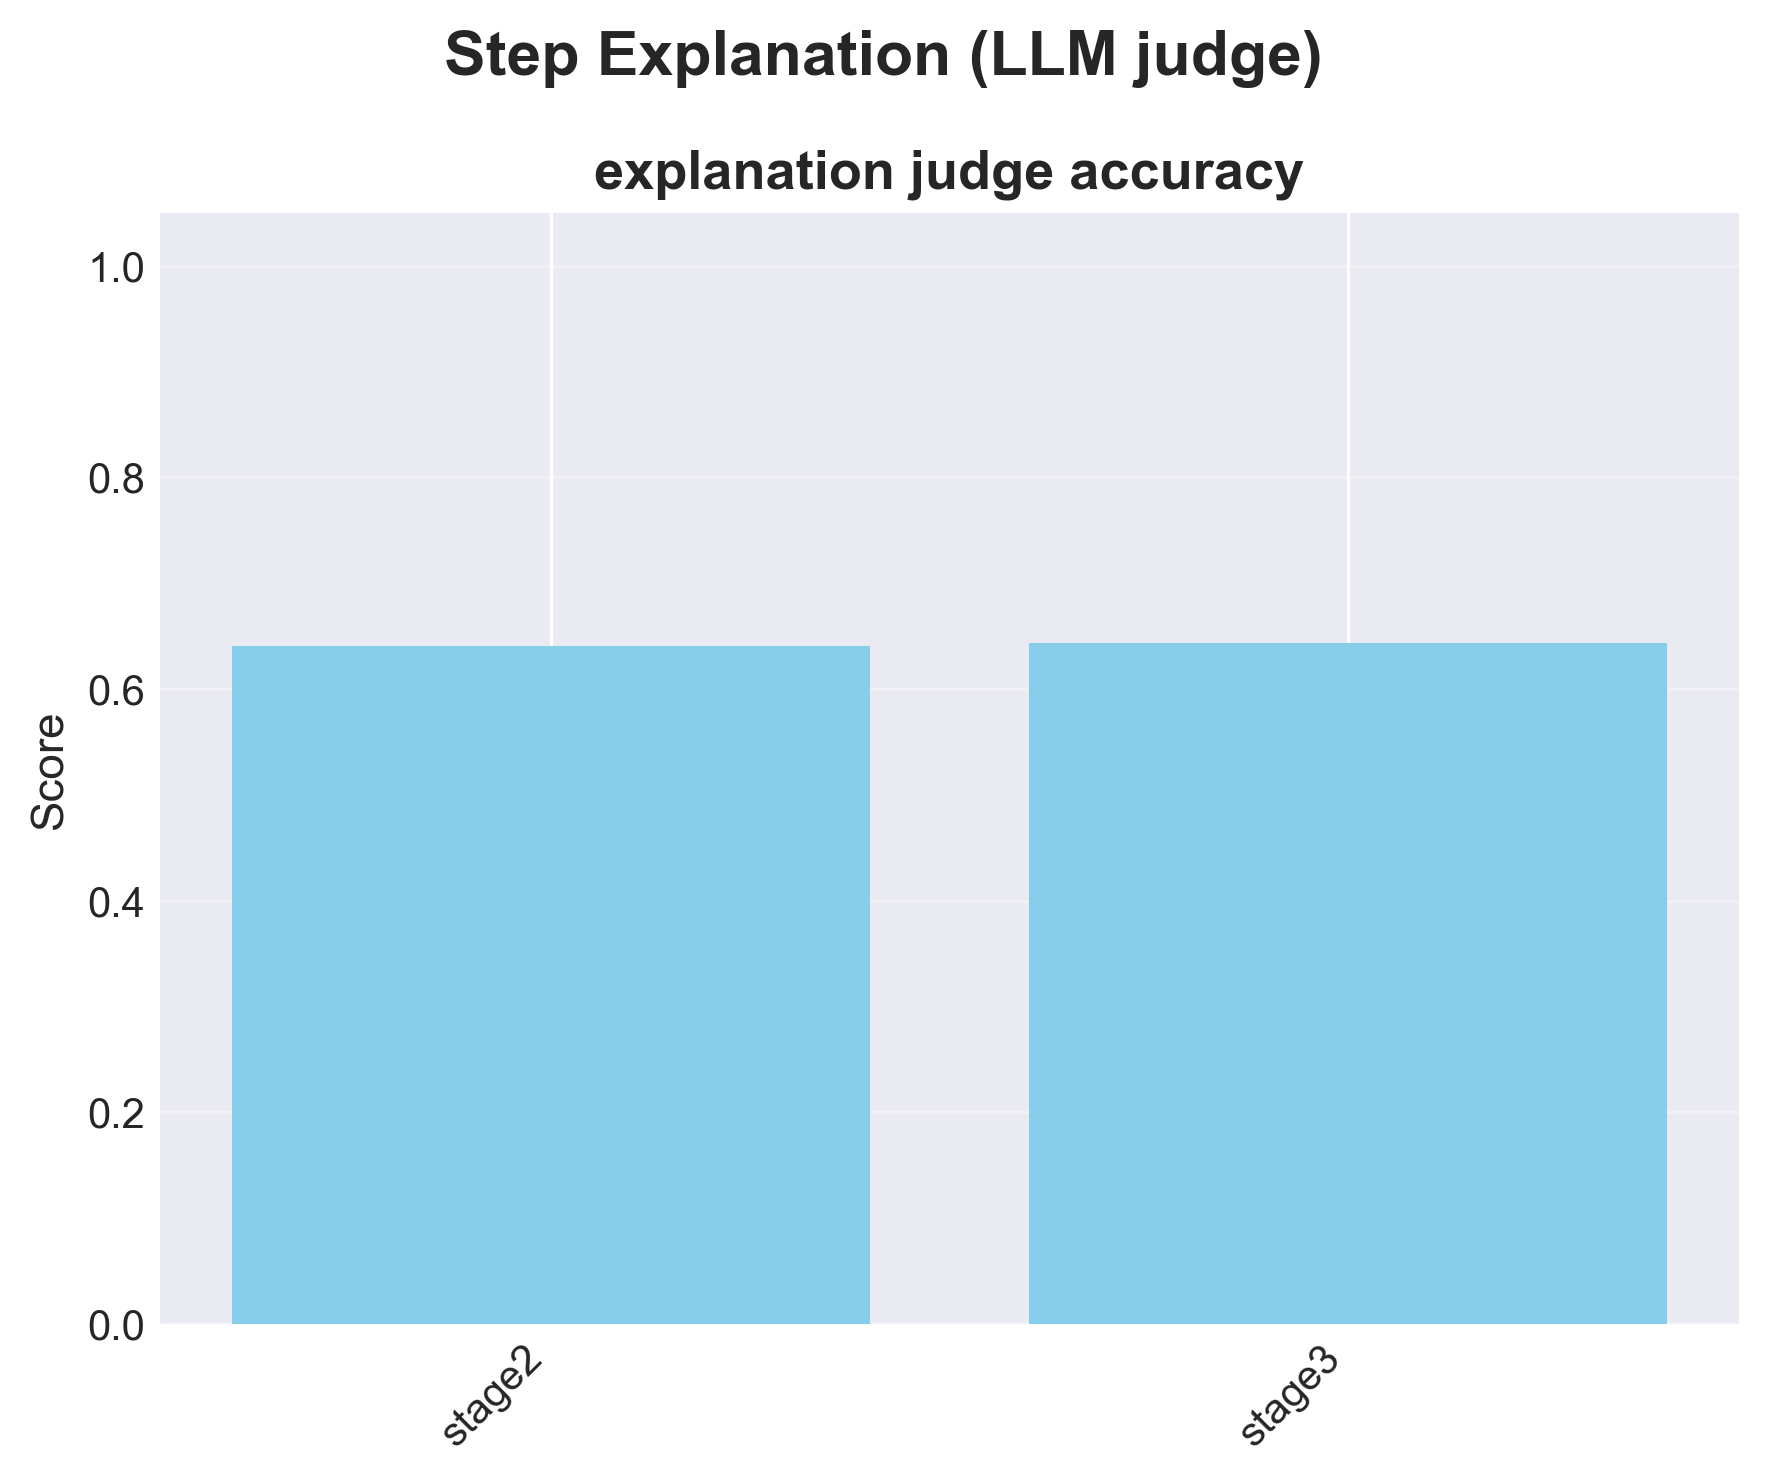
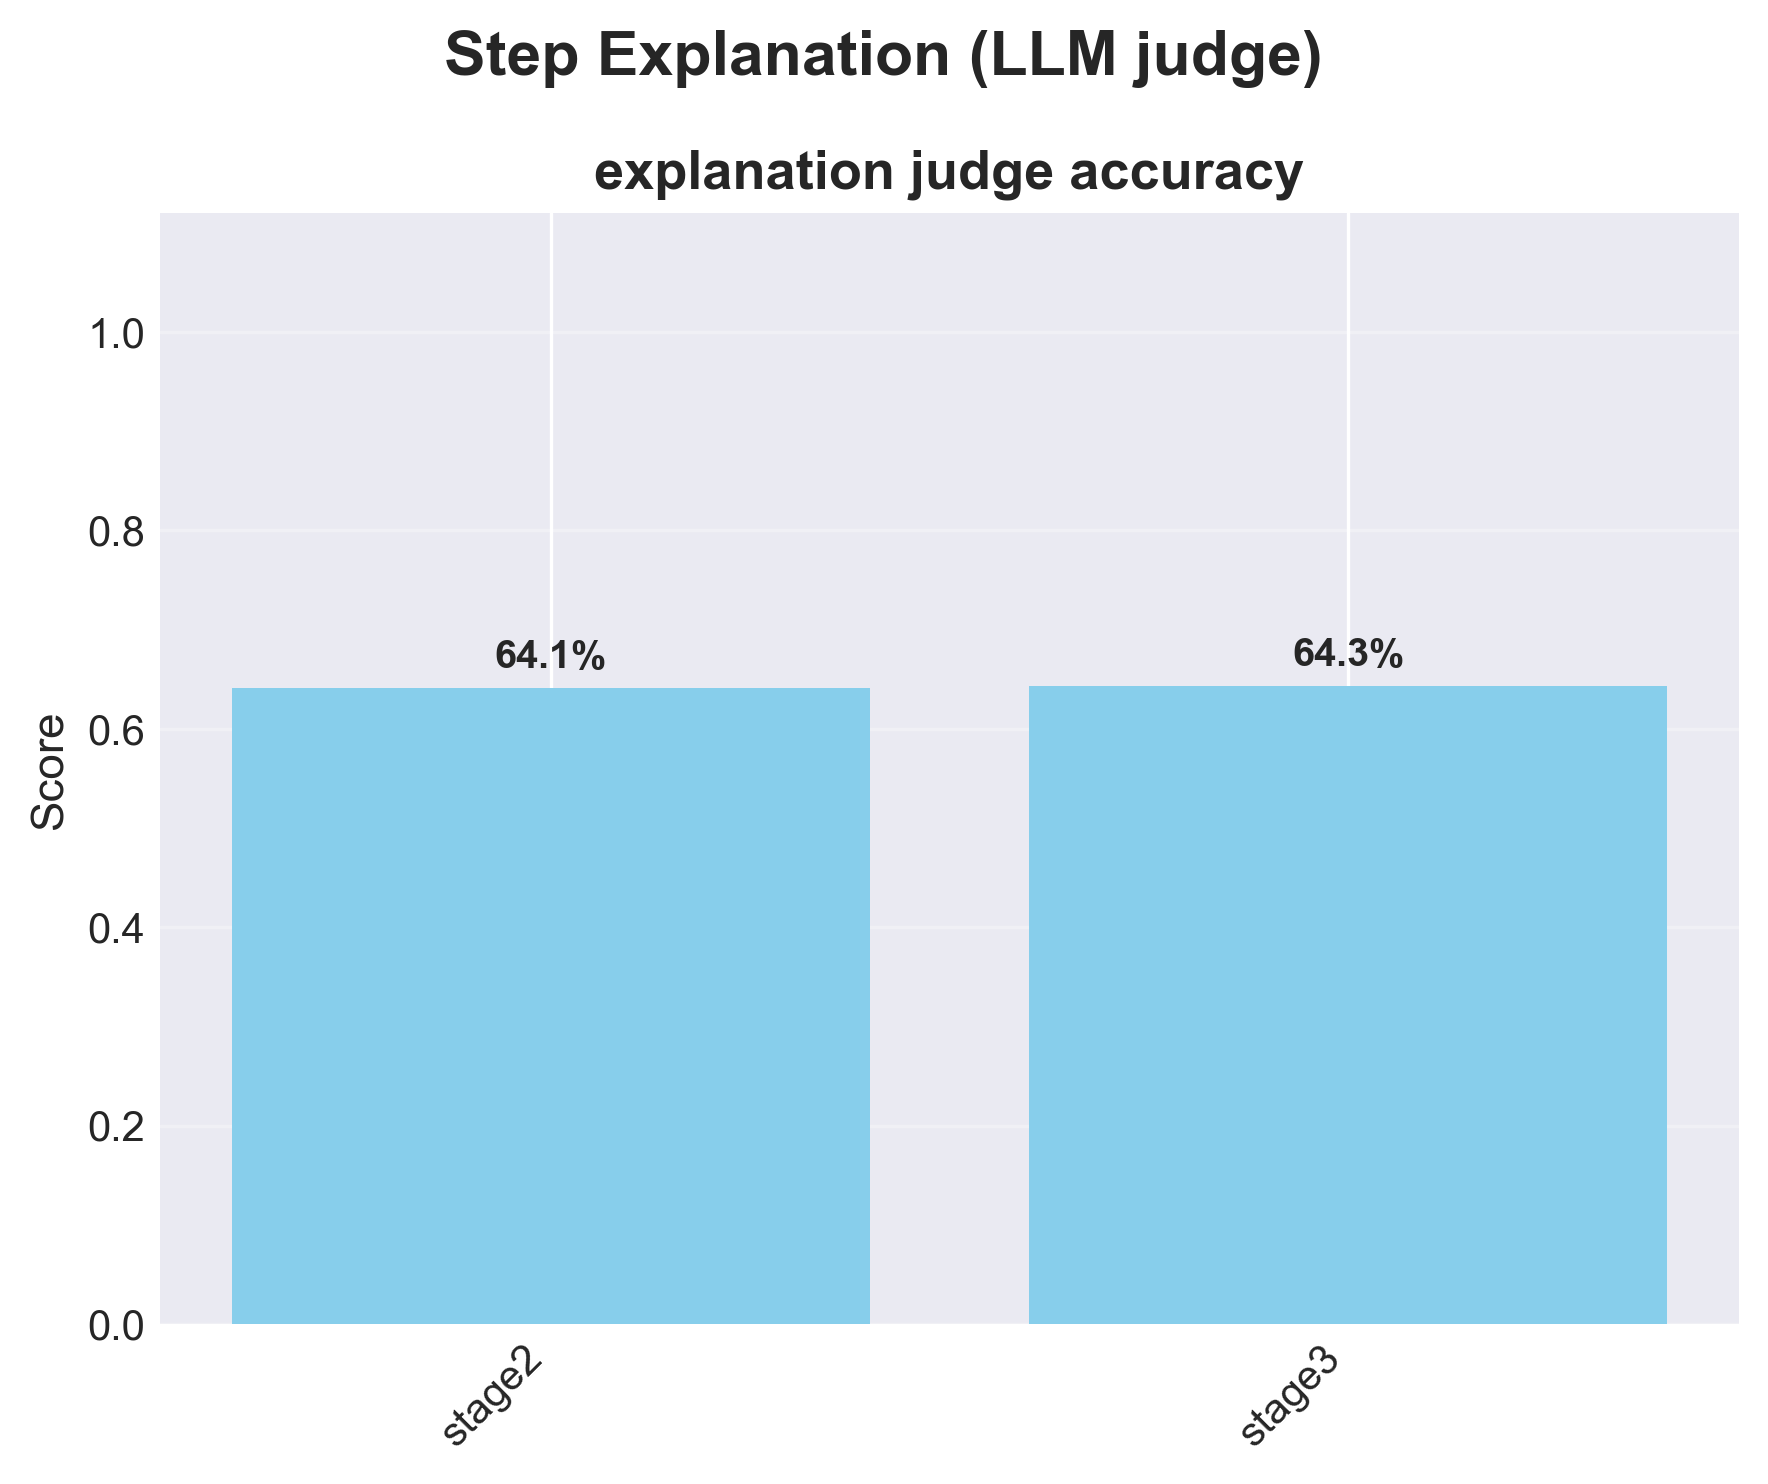
updated results

diff --git a/stepmodel-final-v2/eval/comparison_report.py b/stepmodel-final-v2/eval/comparison_report.py
@@ -349,15 +349,22 @@ def create_visualizations(comparison_df, output_dir):
     """
     plt.style.use('seaborn-v0_8-darkgrid')
 
+    # One group per metric family, each covering every metric in
+    # REPORTED_METRICS that belongs to it -- so a change to that list (add /
+    # remove a reported metric) is reflected here without touching this
+    # function again.
     groups = [
         ('step_comparison.png', 'Step Classification',
-         [m for m in ('step_accuracy', 'step_macro_f1') if m in comparison_df.columns]),
+         [m for m in ('step_accuracy', 'step_micro_f1', 'step_macro_f1')
+          if m in REPORTED_METRICS and m in comparison_df.columns]),
         ('mcp_comparison.png', 'MCP Tool Classification',
-         [m for m in ('mcp_samples_f1', 'mcp_macro_f1',
-                      'mcp_missing_tool_rate', 'mcp_extra_tool_rate')
-          if m in comparison_df.columns]),
+         [m for m in ('mcp_samples_f1', 'mcp_micro_f1', 'mcp_macro_f1',
+                      'mcp_subset_accuracy', 'mcp_missing_tool_rate',
+                      'mcp_extra_tool_rate')
+          if m in REPORTED_METRICS and m in comparison_df.columns]),
         ('explanation_comparison.png', 'Step Explanation (LLM judge)',
-         [m for m in ('explanation_judge_accuracy',) if m in comparison_df.columns]),
+         [m for m in ('explanation_judge_accuracy',)
+          if m in REPORTED_METRICS and m in comparison_df.columns]),
     ]
 
     for fname, title, metrics in groups:
@@ -370,12 +377,22 @@ def create_visualizations(comparison_df, output_dir):
         for ax, metric in zip(axes, cols):
             sub = comparison_df[['Model', metric]].dropna(subset=[metric])
             colour = 'salmon' if metric in LOWER_IS_BETTER else 'skyblue'
-            ax.bar(sub['Model'], sub[metric], color=colour)
+            bars = ax.bar(sub['Model'], sub[metric], color=colour)
+            # Percentage label on every bar (all these metrics are already
+            # 0-1 fractions), placed just above the bar so it reads clearly
+            # against the grid rather than sitting inside the fill colour.
+            for bar, val in zip(bars, sub[metric]):
+                ax.annotate(
+                    f'{val * 100:.1f}%',
+                    xy=(bar.get_x() + bar.get_width() / 2, bar.get_height()),
+                    xytext=(0, 3), textcoords='offset points',
+                    ha='center', va='bottom', fontsize=9.5, fontweight='bold',
+                )
             label = metric.replace('step_', '').replace('mcp_', '').replace('_', ' ')
             suffix = '  (lower is better)' if metric in LOWER_IS_BETTER else ''
             ax.set_title(f'{label}{suffix}', fontsize=13, fontweight='bold')
             ax.set_ylabel('Score', fontsize=11)
-            ax.set_ylim(0, 1.05)
+            ax.set_ylim(0, 1.12)  # headroom so the % label never clips
             ax.grid(axis='y', alpha=0.3)
             for tick in ax.get_xticklabels():
                 tick.set_rotation(45)
